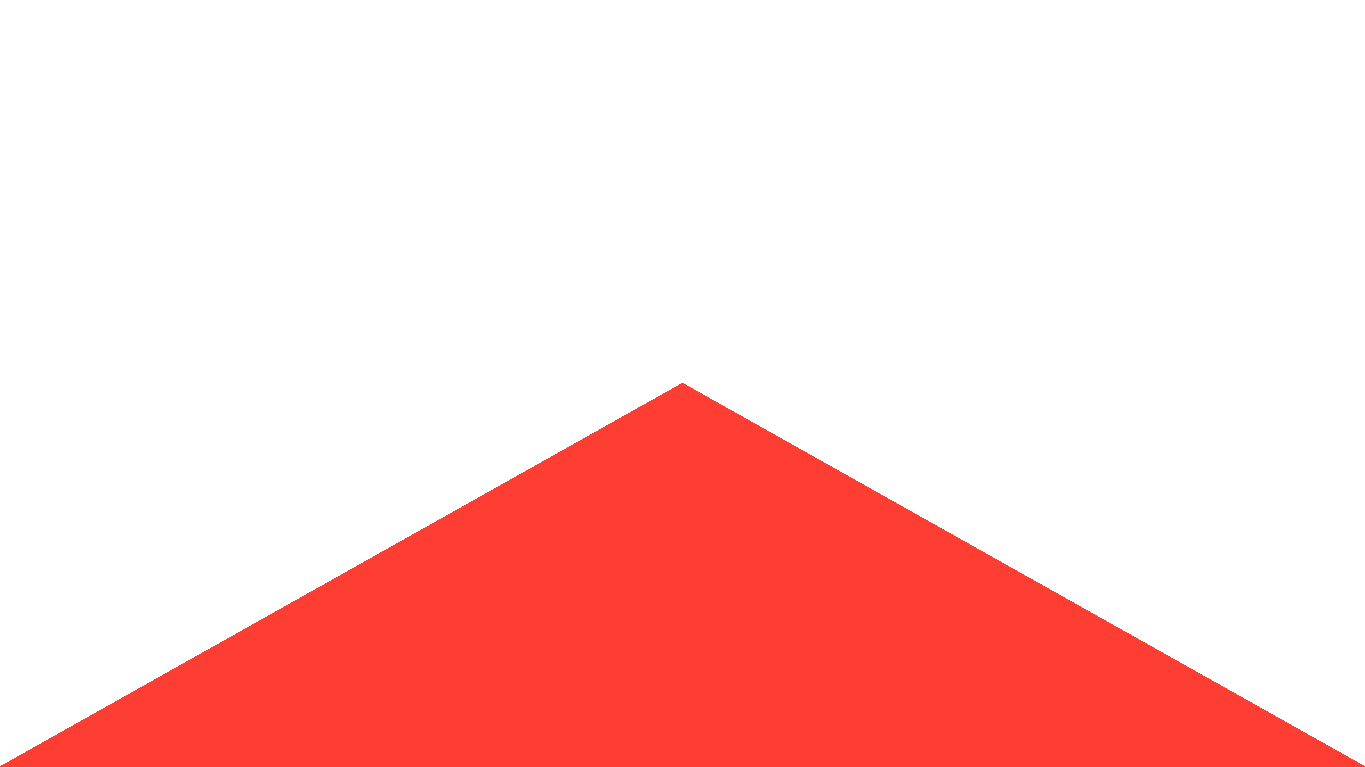
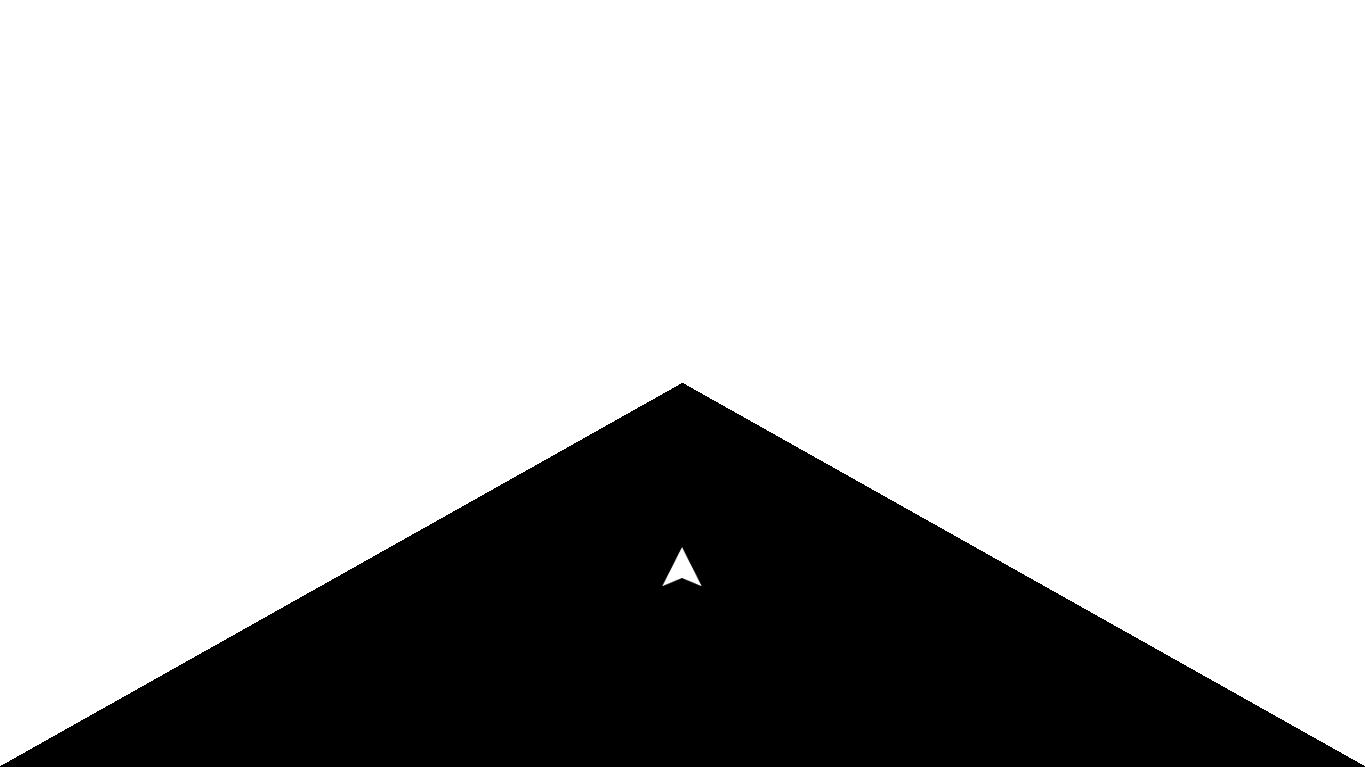
recherche d'effet de translation

Changed region(s): [[0.0, 0.4798, 1.0, 1.0]]

diff --git a/assets/css/style.css b/assets/css/style.css
@@ -204,28 +204,36 @@ font-family: Falcons, serif;
   background-position: 0 -8em;
   height: 30em;
 }
-.openTop{}
+.openTop{
+  background-position: 0 -16em;
+}
 .closeRight{
   background-image: url("../img/flagRight.png");
   background-repeat: no-repeat;
   background-position: left;
   height: 30em;
 }
-.openRight{}
+.openRight{
+  background-position: 12em -10em;
+}
 .closeLeft{
   background-image: url("../img/flagLeft.png");
   background-repeat: no-repeat;
   background-position: right;
   height: 30em;
 }
-.openLeft{}
+.openLeft{
+  background-position: -12em -10em;
+}
 .closeBot{
   background-image: url("../img/flagBot.png");
   background-repeat: no-repeat;
   background-position: 0 -10em;
   height: 30em;
 }
-.openBot{}
+.openBot{
+  background-position: 0em -2em;
+}
 .closeTxt{
   display:flex;
   justify-content: center;
@@ -241,7 +249,7 @@ font-family: Falcons, serif;
   cursor: pointer;
 }
 .openJust-x{
-  margin-top: 5em;
+  margin-top: 6em;
   margin-left: -17Em;
   height:8em;
   width: 10em;
@@ -254,14 +262,14 @@ font-family: Falcons, serif;
 /*==========Footer======================*/
 /*======================================*/
 footer{
-  background-color: #FF7F27;
+  background-color: black;
   background-size: cover;
 }
 .footText{
   font-size: 15px;
   font-weight: bolder;
   font-family: SourceSansPro, serif;
-  color:black;
+  color:white;
   text-align: center;
   margin: 0em;
   padding: 0.5em 0 20em 0;

diff --git a/assets/js/Slide2.js b/assets/js/Slide2.js
@@ -1,0 +1,40 @@
+$( document ).ready(function(){
+console.log( "slide2 ready!" );
+// =================OPEN=====================
+$(".closeJust-x").click(function(){
+  // div logo texte
+  $('#fText').removeClass("closeJust-x");
+  $('#fText').addClass("openJust-x");
+  $('#SlideText2').removeClass("vanish");
+  $('#SlideText2').addClass("mainTextAjust");
+  //div flag top
+  $('#top').addClass( "openTop" );
+  //div flag bot
+  $('#bot').addClass( "openBot" );
+  //div flag right
+  $('#right').addClass( "openRight" );
+  //div flag  left
+  $('#left').addClass( "openLeft" );
+})
+// =================CLOSE=====================
+$(".openJust-x").click(function(){
+  // div logo texte
+  $('#fText').removeClass("openJust-x");
+  $('#fText').addClass("closeJust-x");
+  $('#SlideText2').removeClasss("mainTextAjust");
+  $('#SlideText2').addClass("vanish");
+  //div flag top
+  $('#top').removeClass( "openTop" );
+  $('#top').addClass( "closeTop" );
+  //div flag bot
+  $('#bot').removeClasss( "openBot" );
+  $('#bot').addClass( "closeBot" );
+  //div flag right
+  $('#right').removeClass( "openRight" );
+  $('#right').addClass( "closeRight" );
+  //div flag  left
+  $('#left').removeClass( "openLeft" );
+  $('#left').addClass( "closeLeft" );
+})
+//fin du doc ready
+});

diff --git a/index.php b/index.php
@@ -100,6 +100,8 @@ Club de Football Américain</h1>
     <script src="https://code.jquery.com/jquery-3.1.1.slim.min.js"
     integrity="sha384-A7FZj7v+d/sdmMqp/nOQwliLvUsJfDHW+k9Omg/a/EheAdgtzNs3hpfag6Ed950n"
     crossorigin="anonymous"></script>
+    <!-- slide2 -->
+    <script type="text/javascript" src="assets/js/Slide2.js"></script>
     <!--Paroller-->
     <script src="assets/js/jquery.paroller.js"></script>
     <script>
@@ -107,27 +109,6 @@ Club de Football Américain</h1>
             $(window).paroller();
             $('body').scrollspy({target: '#main-navbar'});
         });
-    </script>
-    <script type="text/javascript">
-      $(".closeJust-x").click(function(){
-        // div logo texte
-        $('#fText').removeClass("closeJust-x");
-        $('#fText').addClass("openJust-x");
-        $('#SlideText2').removeClass("vanish");
-        $('#SlideText2').addClass("mainTextAjust");
-        //div flag top
-        $('#Top').removeClass( "closeTop" );
-        $('#Top').addClass( "openTop" );
-        //div flag bot
-        $('#Bot').removeClass( "closeBot" );
-        $('#Bot').addClass( "openBot" );
-        //div flag right
-        $('#Right').removeClass( "closeRight" );
-        $('#Right').addClass( "openRight" );
-        //div flag  left
-        $('#Left').removeClass( "closeLeft" );
-        $('#Left').addClass( "openLeft" );
-      })
     </script>
   </body>
 </html>
